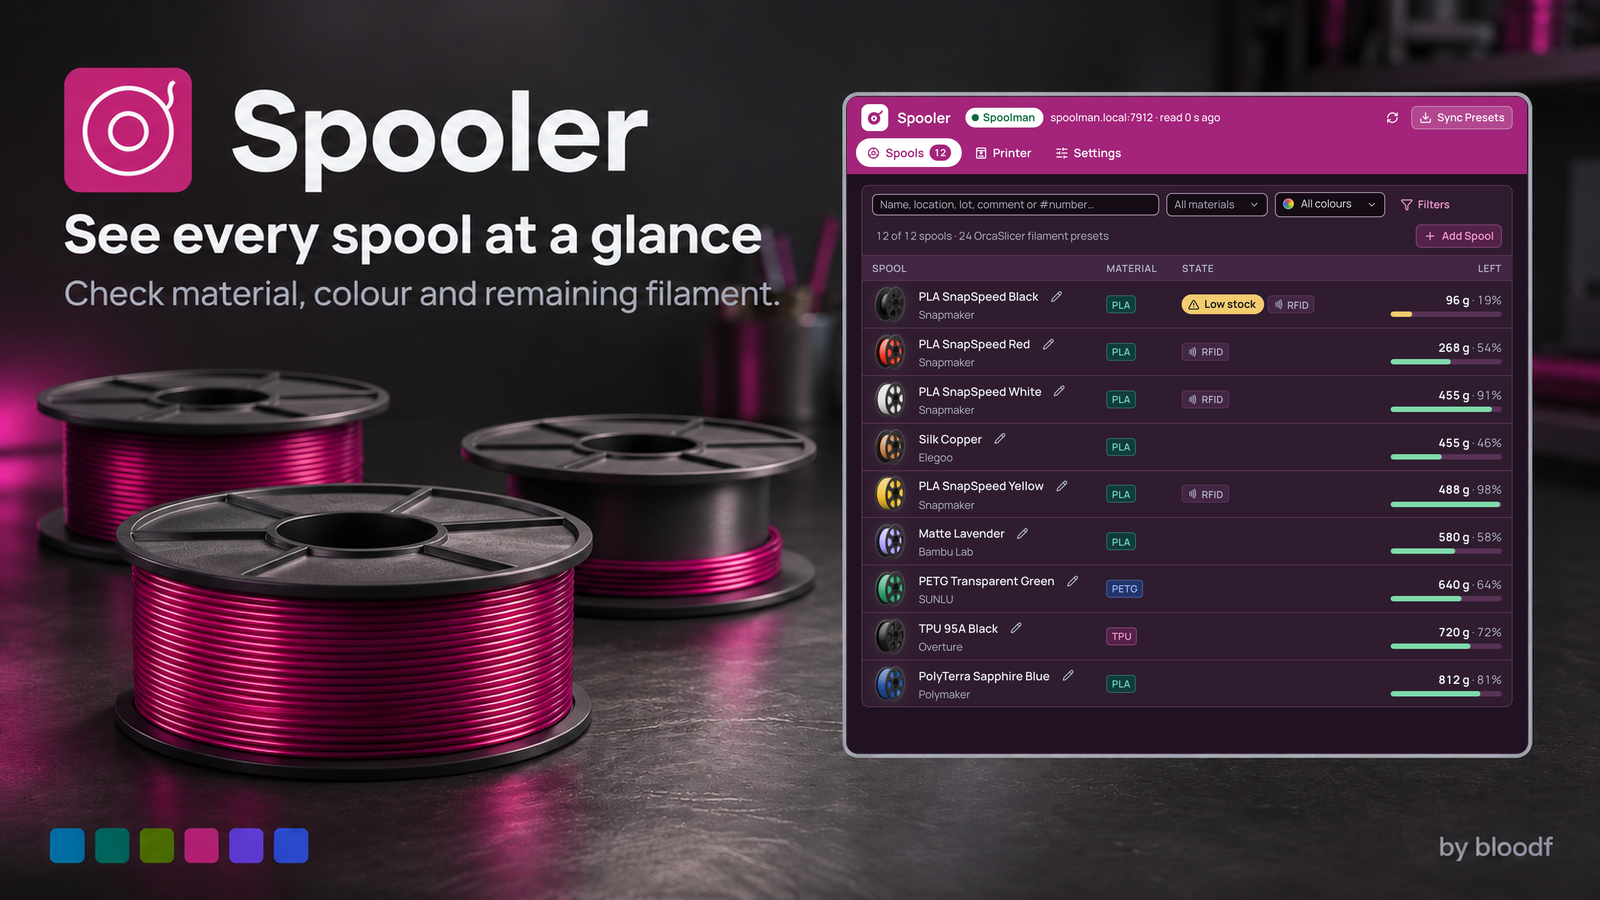
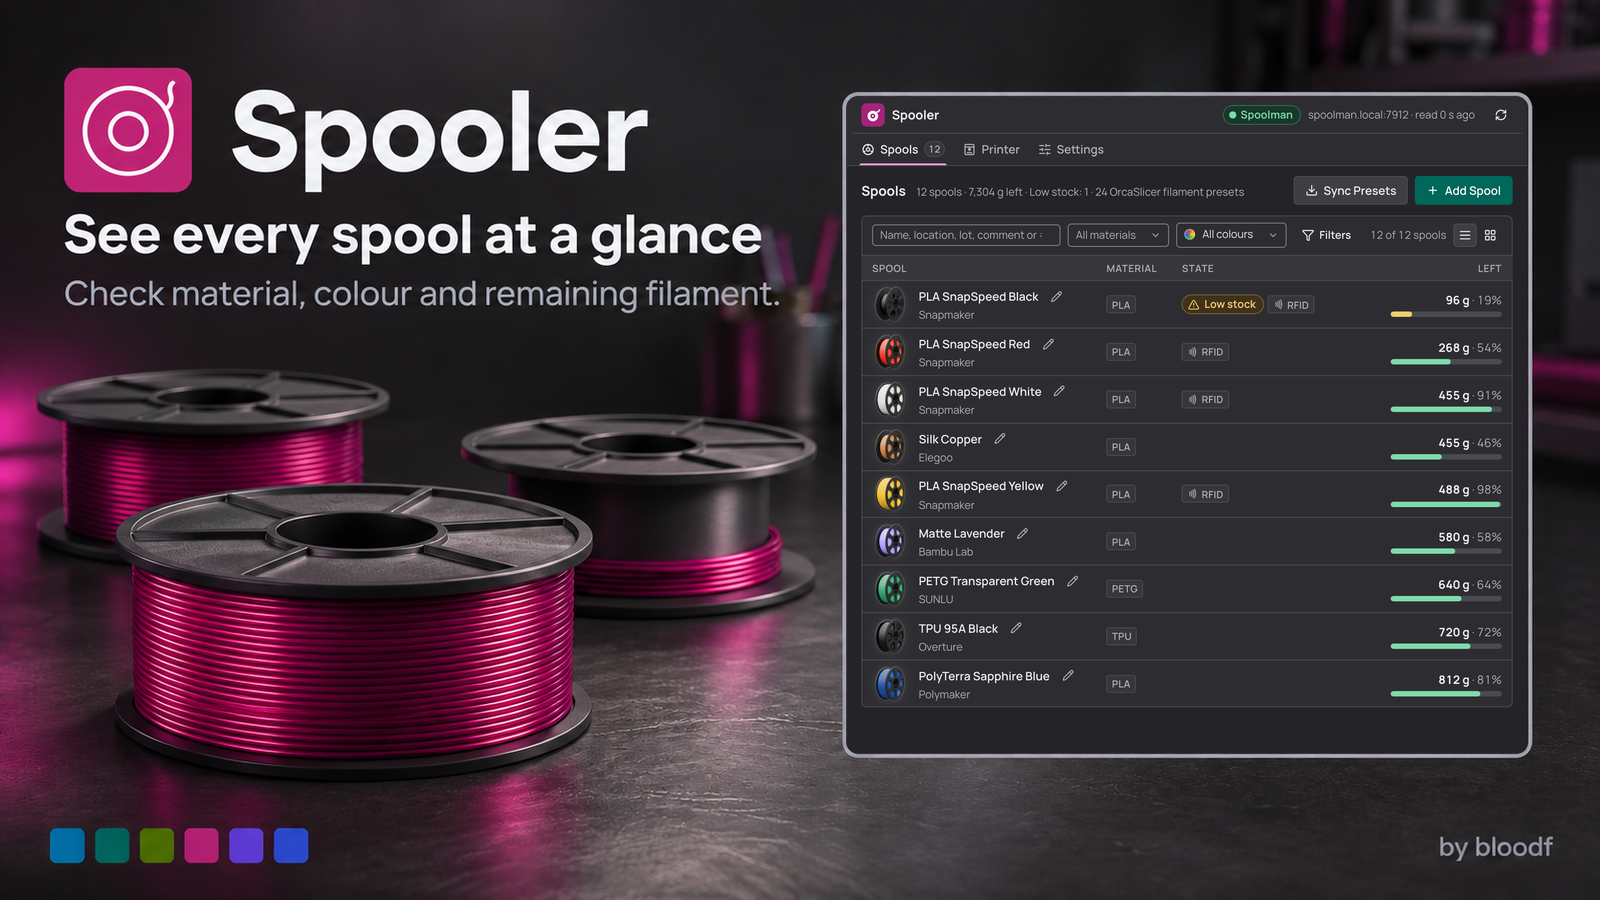
docs(images): re-render the README and listing pictures in the new look
Every export of scripts/store_images/render.py, rendered from the page on the
Orca UI foundation 5.0.5, in English and Brazilian Portuguese.

The script gets a trim() step: a row, line, chip or button that the bottom edge
of the picture (or of a scrolling list) would cut in half is hidden, in the
spool detail, the wide Spools screenshot and the printer under the plate check.

diff --git a/scripts/store_images/render.py b/scripts/store_images/render.py
@@ -64,11 +64,14 @@ SCENES = {
         // Longer labels (Portuguese) wrap the actions onto another line: drop the usage chart rather than cut it.
         var usage = document.querySelector('[data-detail="{SHOWN}"] .sd-usage');
         if (usage && usage.getBoundingClientRect().bottom > innerHeight - 12) usage.remove();
+        trim('[data-detail="{SHOWN}"] *');
         document.activeElement.blur();"""},
     # README screenshots: the list with a spool's detail beside it, and the setup guide asking for the address
     "wide": {"view": "spools", "script": f"""
         document.querySelector('tr[data-spool="{SHOWN}"]').click();
         await until(function () {{ return document.querySelector('[data-detail="{SHOWN}"] .sd-history'); }});
+        // Neither the list nor the detail ends on half a row.
+        trim('tr[data-spool], tr[data-stack], [data-detail="{SHOWN}"] *');
         document.activeElement.blur();"""},
     "setup": {"view": "settings", "wizard_step": 1, "script": ""},
     # "See every spool at a glance": the spool list alone
@@ -109,11 +112,8 @@ SCENES = {
           if (!el.children.length && r.height && r.top < bar && r.bottom > bar + 2) hidden = Math.max(hidden, bar - r.top);
         });
         if (hidden) scrollBy(0, -hidden - 6);
-        // The printer below the check runs past the square's bottom edge: show none of its lines cut in half.
-        document.querySelectorAll('.oui-slot *').forEach(function (el) {
-          var r = el.getBoundingClientRect();
-          if (!el.children.length && r.height && r.bottom > innerHeight - 4) el.style.visibility = 'hidden';
-        });"""},
+        // The printer below the check runs past the square's bottom edge: show none of its lines or buttons cut in half.
+        trim('.oui-slot *');"""},
 }
 
 LANGS = {"en": "en", "pt-BR": "pt_BR"}     # file suffix -> what OrcaSlicer reports as its language
@@ -288,6 +288,16 @@ def plugin_page(sp, view: str, spools_msg: dict, live_msg: dict, wizard_step: in
   function top(el) {{
     var bar = document.querySelector('.oui-appbar');
     scrollBy(0, el.getBoundingClientRect().top - (bar ? bar.getBoundingClientRect().bottom : 0) - 12);
+  }}
+  // Hide the lines, chips and buttons under ``selector`` that a bottom edge would cut in half: the viewport's, or
+  // that of a scrolling parent. The panels holding them are taller than a line and stay.
+  function trim(selector) {{
+    document.querySelectorAll(selector).forEach(function (el) {{
+      var r = el.getBoundingClientRect(), edge = innerHeight - 12;
+      for (var p = el.parentElement; p && p !== document.body; p = p.parentElement)
+        if (p.scrollHeight > p.clientHeight + 1 && /auto|scroll/.test(getComputedStyle(p).overflowY)) edge = Math.min(edge, p.getBoundingClientRect().bottom - 2);
+      if (r.height && r.height < 64 && r.bottom > edge) el.style.visibility = 'hidden';
+    }});
   }}
   window.addEventListener("load", function () {{
     var steps = sleep(200).then(async function () {{
